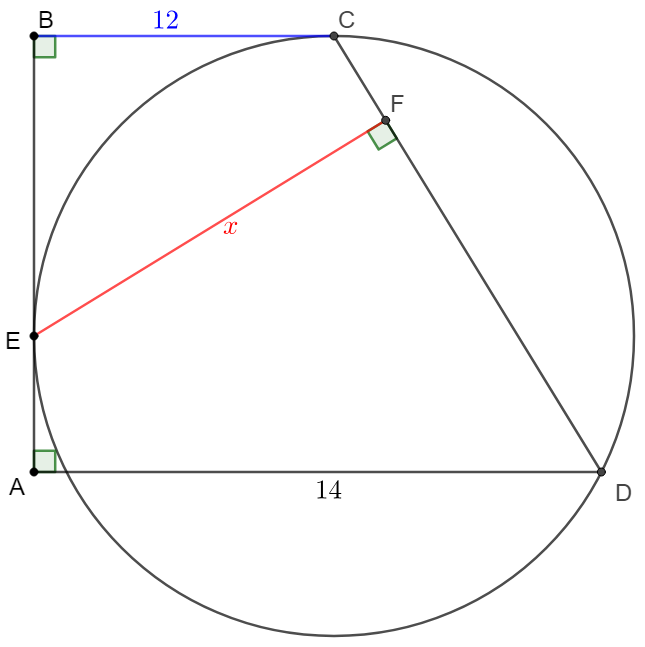
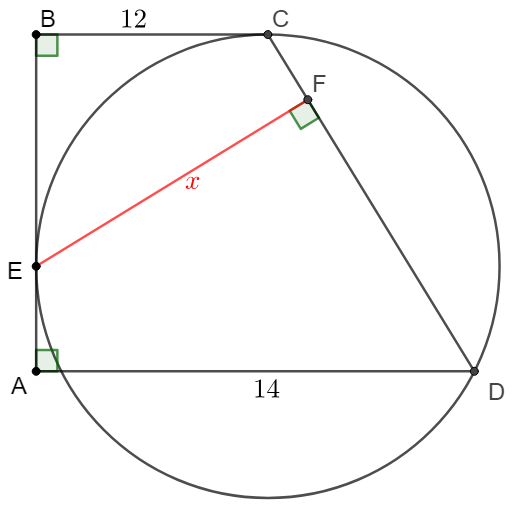
add post

diff --git a/_posts/2023-10-01-wo.md b/_posts/2023-10-01-wo.md
@@ -59,9 +59,9 @@ $$
 
 #### 10/03/2023
 
-##### Trapezoid $ABCD$ has $\angle{ABC}=\angle{BAD}=90^{\circ}, BC=12, AD=14$. Point $E, F$ are on side $AB, CD$ respectively. Point $C, E$ is tangent to circle.  $EF \perp CD$ at $F$. Find $EF$
+##### Trapezoid $ABCD$ has $\angle{ABC}=\angle{BAD}=90^{\circ}, BC=12, AD=14$. Point $E, F$ are on side $AB, CD$ respectively. Point $C, E$ is tangent to circle.  $D$ is on the circle. $EF \perp CD$ at $F$. Find $EF$
 
-![image-20231002224627257](/assets/images/2023/image-20231002224627257.png)
+![image-20231003000621525](/assets/images/2023/image-20231002224627257.png)
 
 **Solve:**
 
